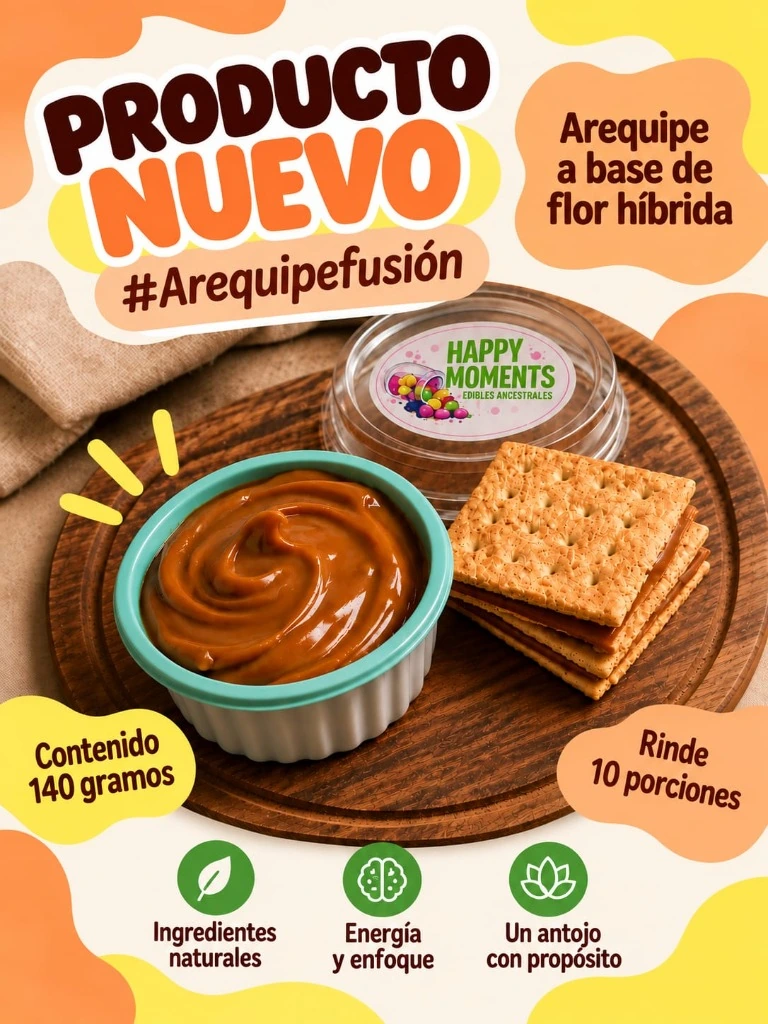
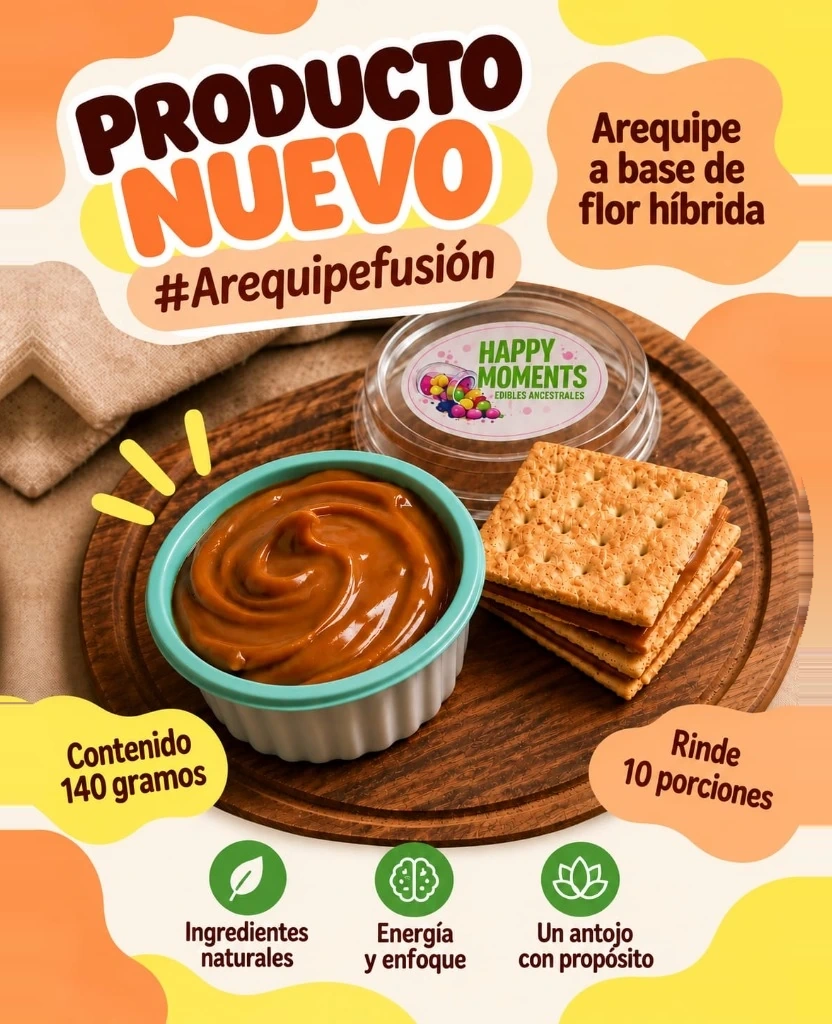
feat: add product carousel component and promotional info assets

diff --git a/src/app/components/product-carousel/product-carousel.ts b/src/app/components/product-carousel/product-carousel.ts
@@ -26,31 +26,31 @@ export class ProductCarouselComponent implements OnInit, OnDestroy {
     {
       image: 'assets/info/descuentos-martes-jueves.webp',
       alt: 'Promociones Martes y Jueves - 10% de descuento',
-      fit: 'contain',
+      fit: 'cover',
       position: 'center',
     },
     {
       image: 'assets/info/lineas-efectos-info.webp',
       alt: 'Guía de líneas Lite, Fusión y Power',
-      fit: 'contain',
+      fit: 'cover',
       position: 'center',
     },
     {
       image: 'assets/info/arequipe-fusion.webp',
       alt: 'Nuevo Producto Arequipe Fusión',
-      fit: 'contain',
+      fit: 'cover',
       position: 'center',
     },
     {
       image: 'assets/info/happy-greek-yogurt.webp',
       alt: 'Nuevo Producto Happy Greek Yogurt Griego',
-      fit: 'contain',
+      fit: 'cover',
       position: 'center',
     },
     {
       image: 'assets/info/happy-sundae-info.webp',
       alt: 'Sabores Happy Sundae',
-      fit: 'contain',
+      fit: 'cover',
       position: 'center',
     },
   ];
